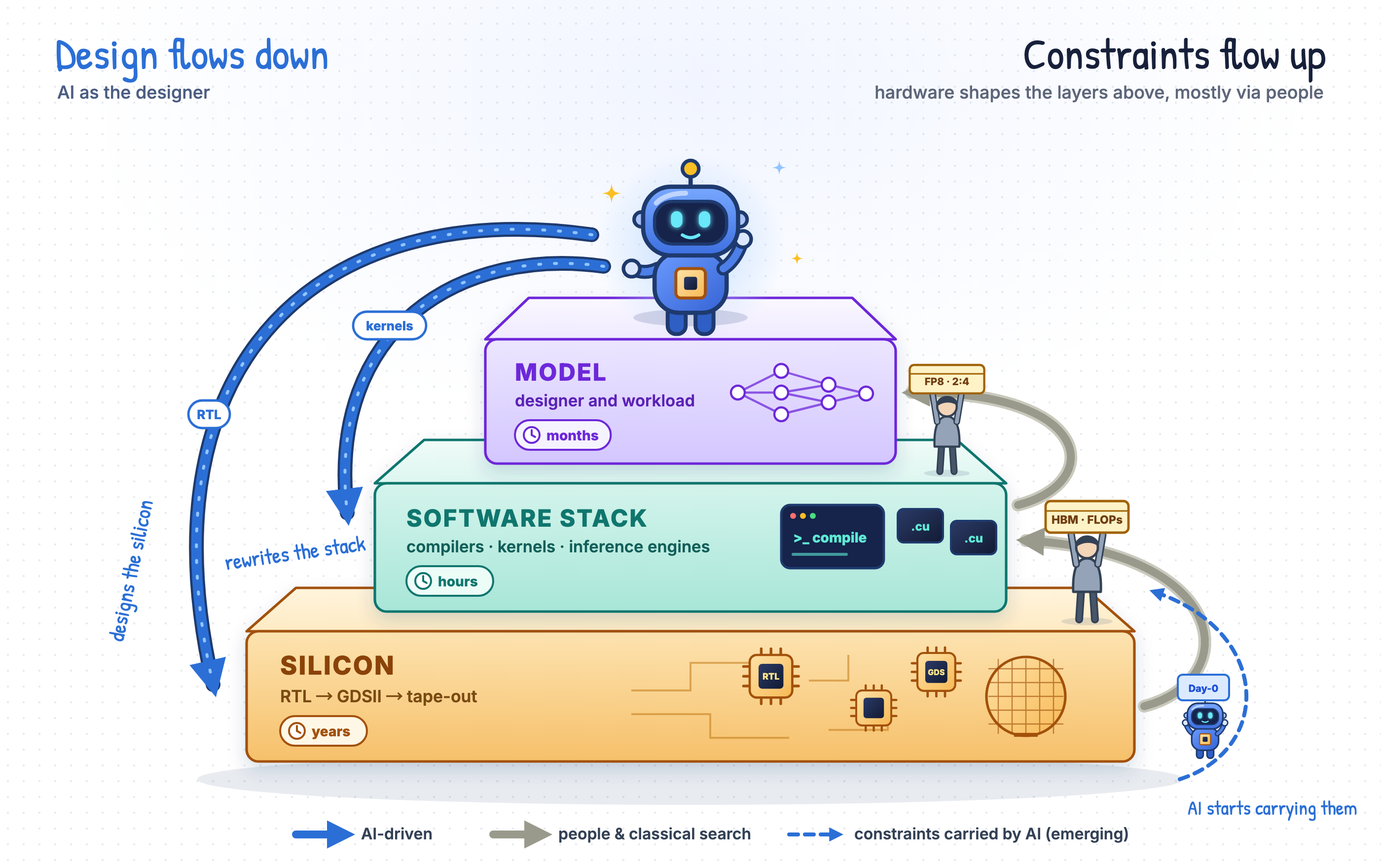
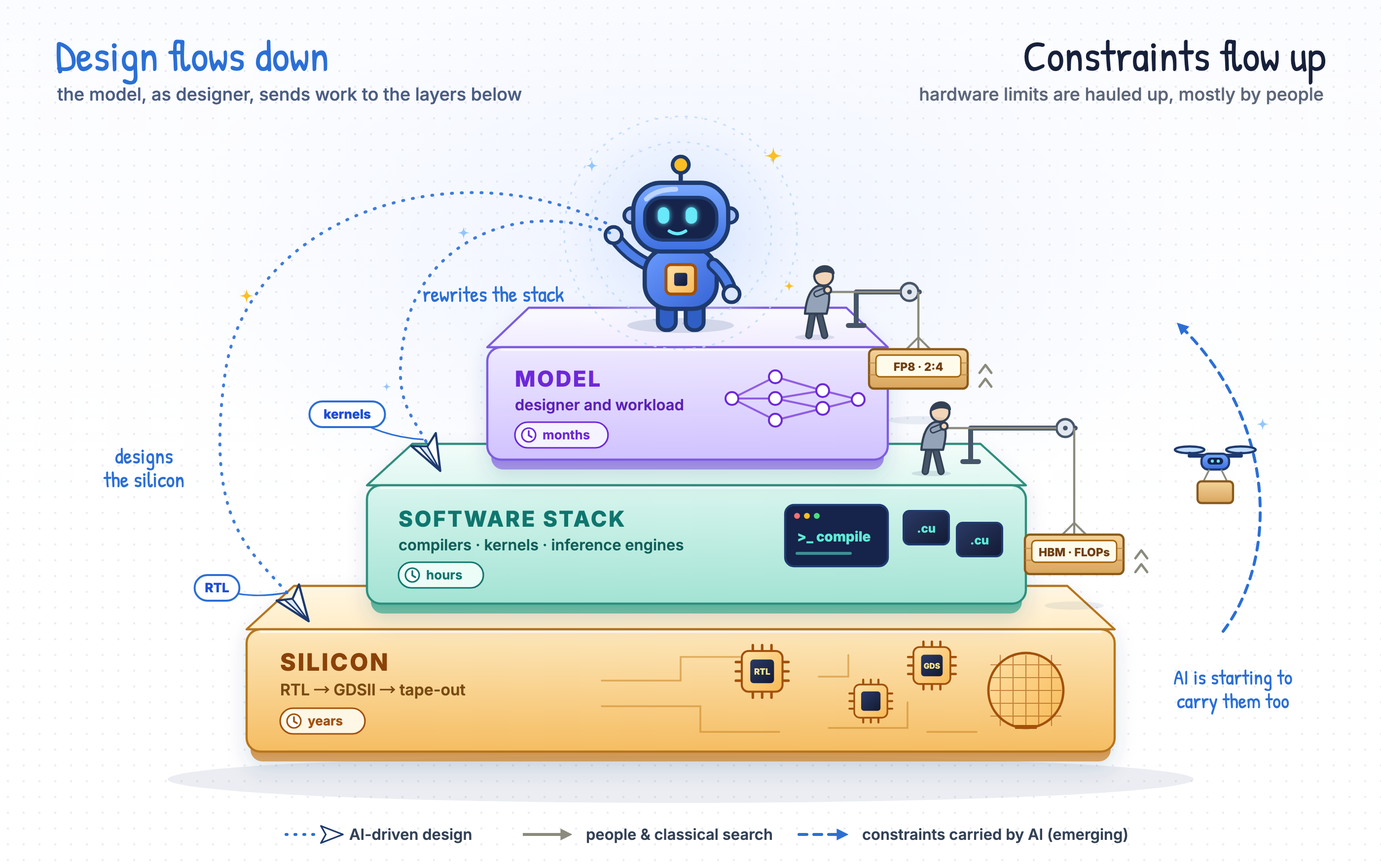
Refine Figure 2: paper planes down, hoists up
Design flows down as paper planes on dotted flight paths; constraints
are hauled up ledge by ledge on pulley hoists worked by people; a drone
marks AI starting to carry them. Day-0 label removed; slabs get a lip
and finer strokes.

diff --git a/scripts/figures/tower.html b/scripts/figures/tower.html
@@ -13,186 +13,219 @@
   html, body { background: #fff; }
   body { width: 1400px; height: 880px; overflow: hidden; font-family: Inter, sans-serif;
          background:
-           radial-gradient(rgba(42,55,99,.10) 1px, transparent 1.3px) 0 0 / 16px 16px,
-           radial-gradient(900px 500px at 50% 10%, #f1f5ff 0%, rgba(255,255,255,0) 70%),
-           #fff; }
+           radial-gradient(rgba(42,55,99,.09) 1px, transparent 1.3px) 0 0 / 16px 16px,
+           radial-gradient(760px 420px at 50% 30%, #eef3ff 0%, rgba(255,255,255,0) 70%),
+           linear-gradient(180deg, #fbfcff 0%, #ffffff 60%); }
   svg { display: block; }
 </style>
 </head>
 <body>
 <svg id="fig" width="1400" height="880" viewBox="0 0 1400 880"></svg>
 <script>
-const NAVY = '#1e3a6e';
+const NAVY = '#1e3a6e', BLUE = '#2b6fd6', ROPE = '#8b8b7e';
 const defs = `<defs>
   <linearGradient id="gHead" x1="0" y1="0" x2="0" y2="1"><stop offset="0" stop-color="#78a8ff"/><stop offset="1" stop-color="#3d6fe0"/></linearGradient>
   <linearGradient id="gBody" x1="0" y1="0" x2="1" y2="1"><stop offset="0" stop-color="#6b9bff"/><stop offset="1" stop-color="#3563d4"/></linearGradient>
   <linearGradient id="gChip" x1="0" y1="0" x2="1" y2="1"><stop offset="0" stop-color="#ffe2a8"/><stop offset="1" stop-color="#f7b955"/></linearGradient>
   <linearGradient id="gDie" x1="0" y1="0" x2="1" y2="1"><stop offset="0" stop-color="#2b3a66"/><stop offset="1" stop-color="#121a33"/></linearGradient>
-  <linearGradient id="fSi" x1="0" y1="0" x2="0" y2="1"><stop offset="0" stop-color="#fde3b0"/><stop offset="1" stop-color="#f6c06a"/></linearGradient>
-  <linearGradient id="tSi" x1="0" y1="0" x2="0" y2="1"><stop offset="0" stop-color="#fff4dc"/><stop offset="1" stop-color="#feebc4"/></linearGradient>
-  <linearGradient id="fSt" x1="0" y1="0" x2="0" y2="1"><stop offset="0" stop-color="#d4f4ec"/><stop offset="1" stop-color="#a8e6d8"/></linearGradient>
-  <linearGradient id="tSt" x1="0" y1="0" x2="0" y2="1"><stop offset="0" stop-color="#f0fbf8"/><stop offset="1" stop-color="#ddf6f0"/></linearGradient>
-  <linearGradient id="fMo" x1="0" y1="0" x2="0" y2="1"><stop offset="0" stop-color="#ece6ff"/><stop offset="1" stop-color="#d3c6ff"/></linearGradient>
-  <linearGradient id="tMo" x1="0" y1="0" x2="0" y2="1"><stop offset="0" stop-color="#faf8ff"/><stop offset="1" stop-color="#efeaff"/></linearGradient>
-  <radialGradient id="gGlow"><stop offset="0" stop-color="#bfdbfe" stop-opacity=".9"/><stop offset="1" stop-color="#bfdbfe" stop-opacity="0"/></radialGradient>
+  <linearGradient id="gWood" x1="0" y1="0" x2="0" y2="1"><stop offset="0" stop-color="#f3d39b"/><stop offset="1" stop-color="#d9a55c"/></linearGradient>
+  ${[['Si', '#fde7bb', '#f5bd62', '#fff6e2', '#ffedc8', '#c9832b'],
+     ['St', '#d8f5ee', '#a3e3d4', '#f2fcf9', '#e0f7f1', '#3fa892'],
+     ['Mo', '#eee8ff', '#d0c2ff', '#fbfaff', '#f1ecff', '#8b6fe0']].map(([k, f0, f1, t0, t1, lip]) => `
+    <linearGradient id="f${k}" x1="0" y1="0" x2="0" y2="1"><stop offset="0" stop-color="${f0}"/><stop offset="1" stop-color="${f1}"/></linearGradient>
+    <linearGradient id="t${k}" x1="0" y1="0" x2="0" y2="1"><stop offset="0" stop-color="${t0}"/><stop offset="1" stop-color="${t1}"/></linearGradient>
+    <linearGradient id="l${k}" x1="0" y1="0" x2="0" y2="1"><stop offset="0" stop-color="${lip}"/><stop offset="1" stop-color="${lip}" stop-opacity=".7"/></linearGradient>`).join('')}
+  <radialGradient id="gHalo"><stop offset="0" stop-color="#c7dbff" stop-opacity=".95"/><stop offset=".6" stop-color="#dbe8ff" stop-opacity=".45"/><stop offset="1" stop-color="#dbe8ff" stop-opacity="0"/></radialGradient>
   <filter id="fEye" x="-80%" y="-80%" width="260%" height="260%"><feGaussianBlur stdDeviation="1.6" result="b"/><feMerge><feMergeNode in="b"/><feMergeNode in="SourceGraphic"/></feMerge></filter>
-  <filter id="fSoft" x="-10%" y="-10%" width="120%" height="140%"><feDropShadow dx="0" dy="8" stdDeviation="9" flood-color="#1e3a6e" flood-opacity=".16"/></filter>
-  ${[['b', '#2b6fd6'], ['g', '#9a9a8c'], ['n', NAVY]].map(([k, c]) => `<marker id="ah-${k}" viewBox="0 0 10 10" refX="6.5" refY="5" markerWidth="3.6" markerHeight="3.6" orient="auto-start-reverse"><path d="M0 0L10 5L0 10z" fill="${c}"/></marker>`).join('')}
+  <filter id="fSoft" x="-10%" y="-20%" width="120%" height="150%"><feDropShadow dx="0" dy="10" stdDeviation="10" flood-color="#1e3a6e" flood-opacity=".14"/></filter>
+  ${[['b', BLUE], ['g', ROPE]].map(([k, c]) => `<marker id="ah-${k}" viewBox="0 0 10 10" refX="6.5" refY="5" markerWidth="4" markerHeight="4" orient="auto-start-reverse"><path d="M0 0L10 5L0 10z" fill="${c}"/></marker>`).join('')}
 </defs>`;
 
-function shadow(cx, cy, rx, o = .13) { return `<ellipse cx="${cx}" cy="${cy}" rx="${rx}" ry="${rx * 0.15}" fill="${NAVY}" opacity="${o}"/>`; }
-function sparkle(x, y, s = 1, c = '#fbbf24') {
-  return `<path transform="translate(${x},${y}) scale(${s})" d="M0 -9 C1 -2 2 -1 9 0 C2 1 1 2 0 9 C-1 2 -2 1 -9 0 C-2 -1 -1 -2 0 -9z" fill="${c}"/>`;
-}
-function robot(x, y, s = 1, { left = 'down', right = 'forward', flip = false } = {}) {
-  const arm = (side, pose) => {
-    const sx = side === 'L' ? 15 : 55, dir = side === 'L' ? -1 : 1;
-    const end = pose === 'up' ? [sx + dir * 12, 40] : pose === 'forward' ? [sx + dir * 16, 58] : [sx + dir * 9, 76];
-    const d = `M${sx} 58 Q ${sx + dir * 8} ${(58 + end[1]) / 2 + 4} ${end[0]} ${end[1]}`;
-    return `<path d="${d}" fill="none" stroke="${NAVY}" stroke-width="8.5" stroke-linecap="round"/><path d="${d}" fill="none" stroke="#4d7fe8" stroke-width="4.6" stroke-linecap="round"/>
-            <circle cx="${end[0]}" cy="${end[1]}" r="5" fill="#dbe7ff" stroke="${NAVY}" stroke-width="2.2"/>`;
-  };
-  return `<g transform="translate(${x},${y}) scale(${flip ? -s : s},${s})${flip ? ' translate(-70,0)' : ''}">
+const shadow = (cx, cy, rx, o = .13) => `<ellipse cx="${cx}" cy="${cy}" rx="${rx}" ry="${rx * 0.14}" fill="${NAVY}" opacity="${o}"/>`;
+const sparkle = (x, y, s = 1, c = '#fbbf24') =>
+  `<path transform="translate(${x},${y}) scale(${s})" d="M0 -9 C1 -2 2 -1 9 0 C2 1 1 2 0 9 C-1 2 -2 1 -9 0 C-2 -1 -1 -2 0 -9z" fill="${c}"/>`;
+
+function robot(x, y, s = 1) {
+  const arm = (d) => `<path d="${d}" fill="none" stroke="${NAVY}" stroke-width="8.5" stroke-linecap="round"/><path d="${d}" fill="none" stroke="#4d7fe8" stroke-width="4.6" stroke-linecap="round"/>`;
+  return `<g transform="translate(${x},${y}) scale(${s})">
     <rect x="21" y="80" width="11" height="18" rx="5" fill="#2f5fc4" stroke="${NAVY}" stroke-width="2.4"/>
     <rect x="38" y="80" width="11" height="18" rx="5" fill="#2f5fc4" stroke="${NAVY}" stroke-width="2.4"/>
-    ${arm('L', left)}
+    ${arm('M15 58 Q 2 52 -6 40')}<circle cx="-6" cy="40" r="5" fill="#dbe7ff" stroke="${NAVY}" stroke-width="2.2"/>
     <rect x="13" y="48" width="44" height="37" rx="15" fill="url(#gBody)" stroke="${NAVY}" stroke-width="2.6"/>
     <rect x="26" y="58" width="18" height="18" rx="3" fill="url(#gChip)" stroke="#a2510b" stroke-width="1.8"/><rect x="31" y="63" width="8" height="8" rx="1.5" fill="url(#gDie)"/>
-    ${arm('R', right)}
+    ${arm('M55 58 Q 64 66 66 76')}<circle cx="66" cy="76" r="5" fill="#dbe7ff" stroke="${NAVY}" stroke-width="2.2"/>
     <line x1="35" y1="9" x2="35" y2="-1" stroke="${NAVY}" stroke-width="2.6"/><circle cx="35" cy="-3" r="5" fill="#fbbf24" stroke="${NAVY}" stroke-width="2.2"/>
     <circle cx="5" cy="28" r="4.5" fill="#a9c2f7" stroke="${NAVY}" stroke-width="2.2"/><circle cx="65" cy="28" r="4.5" fill="#a9c2f7" stroke="${NAVY}" stroke-width="2.2"/>
     <rect x="6" y="8" width="58" height="42" rx="17" fill="url(#gHead)" stroke="${NAVY}" stroke-width="2.6"/>
     <path d="M14 18 q 6 -6 18 -6" stroke="#fff" stroke-opacity=".55" stroke-width="3" fill="none" stroke-linecap="round"/>
     <rect x="13" y="17" width="44" height="26" rx="11" fill="#16234a" stroke="${NAVY}" stroke-width="2"/>
-    <g filter="url(#fEye)"><rect x="23" y="23" width="7" height="10" rx="3.5" fill="#67e8f9"/><rect x="40" y="23" width="7" height="10" rx="3.5" fill="#67e8f9"/></g>
-    <path d="M30 37.5 q 5 3.2 10 0" stroke="#67e8f9" stroke-width="2" fill="none" stroke-linecap="round"/>
+    <g filter="url(#fEye)"><rect x="21" y="23" width="7" height="10" rx="3.5" fill="#67e8f9"/><rect x="38" y="23" width="7" height="10" rx="3.5" fill="#67e8f9"/></g>
+    <path d="M28 37.5 q 5 3.2 10 0" stroke="#67e8f9" stroke-width="2" fill="none" stroke-linecap="round"/>
   </g>`;
 }
-// a person carrying a crate overhead; facing left (toward the tower)
-function porter(x, y, s, label) {
-  return `<g transform="translate(${x},${y}) scale(${s})">
-    ${shadow(0, 2, 26)}
-    <g stroke="#334155" stroke-width="2.4" stroke-linejoin="round" stroke-linecap="round">
-      <path d="M-8 0 L-6 -30 M8 0 L6 -30" stroke-width="8"/><path d="M-8 0 L-6 -30 M8 0 L6 -30" stroke="#475569" stroke-width="4.6"/>
-      <path d="M-14 -28 C -15 -52 -9 -62 0 -62 S 15 -52 14 -28 Z" fill="#94a3b8"/>
-      <path d="M-11 -56 L -16 -86 M11 -56 L 16 -86" stroke-width="7.5"/><path d="M-11 -56 L -16 -86 M11 -56 L 16 -86" stroke="#94a3b8" stroke-width="4.4"/>
-      <circle cx="0" cy="-73" r="11" fill="#f3d5b8"/>
-      <path d="M-11 -75 c 1 -11 20 -12 22 -1 c -6 -4 -15 -4 -22 1z" fill="#334155"/>
-      <rect x="-42" y="-120" width="84" height="32" rx="5" fill="#fef3c7" stroke="#a16207"/>
-      <path d="M-42 -110 h84" stroke="#a16207" stroke-width="1.6"/>
+// paper plane pointing along angle (deg); a horizontal tag hangs from its tail on a string
+function plane(x, y, ang, label, tx, ty) {
+  const r = ang * Math.PI / 180, ex = x - 14 * Math.cos(r), ey = y - 14 * Math.sin(r);
+  const w = label.length * 7.8 + 22;
+  return `<path d="M${ex.toFixed(1)} ${ey.toFixed(1)} Q ${(ex + tx) / 2 - 6} ${(ey + ty) / 2 + 10} ${tx} ${ty}" fill="none" stroke="${BLUE}" stroke-width="1.6"/>
+    <g transform="translate(${tx - w / 2},${ty - 13})"><rect width="${w}" height="26" rx="13" fill="#fff" stroke="${BLUE}" stroke-width="2"/>
+      <text x="${w / 2}" y="17.5" text-anchor="middle" font-family="Inter" font-weight="800" font-size="13" fill="#1d4ed8">${label}</text></g>
+    <g transform="translate(${x},${y}) rotate(${ang})">
+      <path d="M22 0 L-14 -14 L-6 0 L-14 14 Z" fill="#fff" stroke="${NAVY}" stroke-width="2.2" stroke-linejoin="round"/>
+      <path d="M22 0 L-6 0 L-10 7 Z" fill="#dbeafe" stroke="${NAVY}" stroke-width="1.6" stroke-linejoin="round"/>
+    </g>`;
+}
+// crate hanging from a pulley; a person pulls the rope from the ledge above
+function hoist({ px, py, armX, crateY, puller, label }) {
+  const [hx, hy] = puller;
+  return `
+    <path d="M${px} ${py} V ${py - 34} H ${armX + 10}" fill="none" stroke="#475569" stroke-width="5" stroke-linecap="round" stroke-linejoin="round"/>
+    <path d="M${px - 8} ${py} H ${px + 8}" stroke="#475569" stroke-width="5" stroke-linecap="round"/>
+    <circle cx="${armX}" cy="${py - 34}" r="9" fill="#e2e8f0" stroke="#475569" stroke-width="2.4"/><circle cx="${armX}" cy="${py - 34}" r="2.4" fill="#475569"/>
+    <path d="M${armX + 9} ${py - 34} V ${crateY - 18}" stroke="${ROPE}" stroke-width="2.2"/>
+    <path d="M${armX - 9} ${py - 34} L ${hx + 12} ${hy - 44}" stroke="${ROPE}" stroke-width="2.2"/>
+    <g transform="translate(${armX + 9},${crateY})">
+      ${shadow(0, 54, 30, .08)}
+      <path d="M-12 -18 L0 -30 L12 -18" fill="none" stroke="${ROPE}" stroke-width="2"/>
+      <rect x="-50" y="-18" width="100" height="40" rx="5" fill="url(#gWood)" stroke="#8a5a1c" stroke-width="2.2"/>
+      <path d="M-50 -4 H50 M-50 8 H50" stroke="#b9853e" stroke-width="1.2" opacity=".7"/>
+      <rect x="-43" y="-12" width="86" height="22" rx="4" fill="#fffbeb" stroke="#a16207" stroke-width="1.4"/>
+      <text x="0" y="4" text-anchor="middle" font-family="Inter" font-weight="800" font-size="11.5" fill="#713f12">${label}</text>
+      <path d="M62 6 l6 -8 6 8 M62 20 l6 -8 6 8" fill="none" stroke="${ROPE}" stroke-width="2.4" stroke-linecap="round" stroke-linejoin="round"/>
     </g>
-    <text x="0" y="-97" text-anchor="middle" font-family="Inter" font-weight="800" font-size="11.5" fill="#713f12">${label}</text>
+    ${person(hx, hy)}`;
+}
+// a person leaning back, pulling a rope up and to the left
+function person(x, y) {
+  return `<g transform="translate(${x},${y})">
+    ${shadow(0, 2, 20)}
+    <g stroke="#334155" stroke-width="2.2" stroke-linejoin="round" stroke-linecap="round">
+      <path d="M-6 0 L-2 -24 M10 0 L4 -24" stroke-width="7.5"/><path d="M-6 0 L-2 -24 M10 0 L4 -24" stroke="#475569" stroke-width="4.2"/>
+      <path d="M-10 -22 C -8 -44 0 -52 8 -50 S 16 -38 12 -22 Z" fill="#94a3b8"/>
+      <path d="M2 -42 L 12 -46" stroke-width="7"/><path d="M2 -42 L 12 -46" stroke="#94a3b8" stroke-width="4"/>
+      <circle cx="13" cy="-46" r="3.6" fill="#f3d5b8"/>
+      <circle cx="9" cy="-60" r="9.5" fill="#f3d5b8"/>
+      <path d="M0 -62 c 1 -10 18 -11 19 -1 c -5 -3 -13 -3 -19 1z" fill="#334155"/>
+    </g>
   </g>`;
 }
-function slab(xl, xr, yTop, h, inset, d, front, top, stroke) {
+function drone(x, y) {
+  return `<g transform="translate(${x},${y})">
+    <g stroke="${NAVY}" stroke-width="2.2">
+      <path d="M-26 -8 H26" stroke-width="4" stroke-linecap="round"/>
+      <ellipse cx="-26" cy="-14" rx="15" ry="3.4" fill="#bfdbfe"/><ellipse cx="26" cy="-14" rx="15" ry="3.4" fill="#bfdbfe"/>
+      <path d="M-26 -8 V-12 M26 -8 V-12"/>
+      <rect x="-14" y="-10" width="28" height="16" rx="7" fill="url(#gHead)"/>
+      <rect x="-8" y="-6" width="16" height="7" rx="3.5" fill="#16234a" stroke="none"/>
+      <circle cx="-3" cy="-2.5" r="1.6" fill="#67e8f9" stroke="none"/><circle cx="3" cy="-2.5" r="1.6" fill="#67e8f9" stroke="none"/>
+      <path d="M-6 6 L-12 18 M6 6 L12 18" stroke="${ROPE}" stroke-width="1.8"/>
+      <rect x="-18" y="18" width="36" height="22" rx="4" fill="url(#gWood)" stroke="#8a5a1c"/>
+    </g>
+  </g>`;
+}
+function slab({ xl, xr, y, h, inset, d, k, stroke }) {
   return `<g filter="url(#fSoft)">
-    <path d="M${xl} ${yTop} L${xl + inset} ${yTop - d} L${xr - inset} ${yTop - d} L${xr} ${yTop} Z" fill="url(#${top})" stroke="${stroke}" stroke-width="2.6" stroke-linejoin="round"/>
-    <rect x="${xl}" y="${yTop}" width="${xr - xl}" height="${h}" rx="12" fill="url(#${front})" stroke="${stroke}" stroke-width="2.6"/>
+    <rect x="${xl + 4}" y="${y + h - 14}" width="${xr - xl - 8}" height="24" rx="12" fill="url(#l${k})"/>
+    <path d="M${xl} ${y} L${xl + inset} ${y - d} L${xr - inset} ${y - d} L${xr} ${y} Z" fill="url(#t${k})" stroke="${stroke}" stroke-width="2.2" stroke-linejoin="round"/>
+    <rect x="${xl}" y="${y}" width="${xr - xl}" height="${h}" rx="14" fill="url(#f${k})" stroke="${stroke}" stroke-width="2.2"/>
+    <path d="M${xl + 14} ${y + 2.5} H ${xr - 14}" stroke="#fff" stroke-opacity=".75" stroke-width="2.4" stroke-linecap="round"/>
   </g>`;
 }
-function pill(x, y, text, c, bg) {
-  const w = 16 + text.length * 9.2 + 26;
-  return `<g transform="translate(${x},${y})"><rect width="${w}" height="30" rx="15" fill="${bg}" stroke="${c}" stroke-width="2"/>
-    <circle cx="17" cy="15" r="8" fill="#fff" stroke="${c}" stroke-width="2"/><path d="M17 10v5l3.5 2" stroke="${c}" stroke-width="2" fill="none" stroke-linecap="round"/>
-    <text x="32" y="20.5" font-family="Inter" font-weight="800" font-size="14" fill="${c}">${text}</text></g>`;
-}
-function tag(x, y, text, c) {
-  const w = 18 + text.length * 8;
-  return `<g transform="translate(${x - w / 2},${y - 14})"><rect width="${w}" height="28" rx="14" fill="#fff" stroke="${c}" stroke-width="2.4"/>
-    <text x="${w / 2}" y="19" text-anchor="middle" font-family="Inter" font-weight="800" font-size="13" fill="${c}">${text}</text></g>`;
+function badge(x, y, text, c, bg) {
+  const w = 44 + text.length * 8.4;
+  return `<g transform="translate(${x},${y})"><rect width="${w}" height="26" rx="13" fill="${bg}" stroke="${c}" stroke-width="1.6"/>
+    <circle cx="14" cy="13" r="7" fill="#fff" stroke="${c}" stroke-width="1.6"/><path d="M14 9v4.4l3 1.8" stroke="${c}" stroke-width="1.8" fill="none" stroke-linecap="round"/>
+    <text x="28" y="17.6" font-family="Inter" font-weight="700" font-size="13" fill="${c}">${text}</text></g>`;
 }
 
 // ---------------------------------------------------------------- geometry
-const SI = { xl: 250, xr: 1150, y: 640, h: 132 };
-const ST = { xl: 380, xr: 1020, y: 490, h: 130 };
-const MO = { xl: 492, xr: 908, y: 344, h: 126 };
+const SI = { xl: 250, xr: 1130, y: 638, h: 124, inset: 48, d: 44, k: 'Si', stroke: '#b7741f' };
+const ST = { xl: 372, xr: 1040, y: 492, h: 120, inset: 46, d: 42, k: 'St', stroke: '#2f8f7d' };
+const MO = { xl: 494, xr: 900, y: 352, h: 114, inset: 42, d: 40, k: 'Mo', stroke: '#7c5ce0' };
 
 let g = defs;
-g += `<ellipse cx="700" cy="790" rx="500" ry="26" fill="${NAVY}" opacity=".10"/>`;
+g += `<ellipse cx="690" cy="790" rx="520" ry="24" fill="${NAVY}" opacity=".09"/>`;
 
 // headings
-g += `<text x="56" y="70" font-family="Patrick Hand" font-size="44" fill="#2b6fd6">Design flows down</text>
-      <text x="58" y="100" font-family="Inter" font-weight="500" font-size="18" fill="#4b5d82">AI as the designer</text>
-      <text x="1344" y="70" text-anchor="end" font-family="Patrick Hand" font-size="44" fill="#17203a">Constraints flow up</text>
-      <text x="1342" y="100" text-anchor="end" font-family="Inter" font-weight="500" font-size="18" fill="#5d6679">hardware shapes the layers above, mostly via people</text>`;
+g += `<text x="56" y="72" font-family="Patrick Hand" font-size="44" fill="${BLUE}">Design flows down</text>
+      <text x="58" y="102" font-family="Inter" font-weight="500" font-size="18" fill="#4b5d82">the model, as designer, sends work to the layers below</text>
+      <text x="1344" y="72" text-anchor="end" font-family="Patrick Hand" font-size="44" fill="#17203a">Constraints flow up</text>
+      <text x="1342" y="102" text-anchor="end" font-family="Inter" font-weight="500" font-size="18" fill="#5d6679">hardware limits are hauled up, mostly by people</text>`;
 
-// slabs
-g += slab(SI.xl, SI.xr, SI.y, SI.h, 50, 44, 'fSi', 'tSi', '#a2510b');
-g += slab(ST.xl, ST.xr, ST.y, ST.h, 50, 44, 'fSt', 'tSt', '#0f766e');
-g += slab(MO.xl, MO.xr, MO.y, MO.h, 44, 42, 'fMo', 'tMo', '#6d28d9');
+// the tower
+g += slab(SI) + slab(ST) + slab(MO);
 
-// silicon face: traces, chips, wafer
-g += `<g stroke="#c27c1a" stroke-width="2" fill="none" opacity=".55">
-    <path d="M640 700 H700 V672 H760 M640 724 H720 V748 H800 M820 690 H860 V664 M840 740 H900 V712"/>
+// silicon face
+g += `<g stroke="#c27c1a" stroke-width="1.8" fill="none" opacity=".5" stroke-linecap="round">
+    <path d="M610 690 H690 V666 H750 M610 716 H710 V742 H790 M830 686 H860 V664 M840 738 H920 V712 M990 742 H940"/>
   </g>`;
-for (const [x, y, s, l] of [[760, 664, .9, 'RTL'], [868, 700, .74, ''], [930, 662, .8, 'GDS']]) {
+for (const [x, y, s, l] of [[752, 660, .86, 'RTL'], [866, 694, .7, ''], [926, 656, .78, 'GDS']]) {
   let pins = ''; for (const p of [13, 24, 35]) pins += `<path d="M${p} 0v-7M${p} 48v7M0 ${p}h-7M48 ${p}h7"/>`;
   g += `<g transform="translate(${x},${y}) scale(${s})"><g stroke="#a2510b" stroke-width="3" stroke-linecap="round">${pins}</g>
-    <rect width="48" height="48" rx="8" fill="url(#gChip)" stroke="#a2510b" stroke-width="2.6"/><rect x="10" y="10" width="28" height="28" rx="4" fill="url(#gDie)"/>
+    <rect width="48" height="48" rx="8" fill="url(#gChip)" stroke="#a2510b" stroke-width="2.4"/><rect x="10" y="10" width="28" height="28" rx="4" fill="url(#gDie)"/>
     ${l ? `<text x="24" y="28" text-anchor="middle" font-family="Inter" font-weight="800" font-size="10" fill="#fde68a">${l}</text>` : ''}</g>`;
 }
-g += `<g transform="translate(1040,706)"><circle r="40" fill="url(#gChip)" stroke="#a2510b" stroke-width="2.6"/>
-  <g stroke="#a2510b" stroke-width="1.2" opacity=".65">${[-28, -14, 0, 14, 28].map(v => `<path d="M${v} -38 V38 M-38 ${v} H38"/>`).join('')}</g>
-  <path d="M-12 39 h24" stroke="#a2510b" stroke-width="4"/></g>`;
-g += `<text x="${SI.xl + 34}" y="${SI.y + 44}" font-family="Inter" font-weight="800" font-size="26" letter-spacing=".06em" fill="#8a4208">SILICON</text>
-      <text x="${SI.xl + 34}" y="${SI.y + 72}" font-family="Inter" font-weight="600" font-size="17" fill="#7a4a12">RTL → GDSII → tape-out</text>`;
-g += pill(SI.xl + 34, SI.y + 86, 'years', '#a2510b', '#fff7e6');
+g += `<g transform="translate(1040,700)"><circle r="38" fill="url(#gChip)" stroke="#a2510b" stroke-width="2.4"/>
+  <g stroke="#a2510b" stroke-width="1.1" opacity=".6">${[-26, -13, 0, 13, 26].map(v => `<path d="M${v} -36 V36 M-36 ${v} H36"/>`).join('')}</g>
+  <path d="M-11 37 h22" stroke="#a2510b" stroke-width="4"/></g>`;
+g += `<text x="${SI.xl + 34}" y="${SI.y + 42}" font-family="Inter" font-weight="800" font-size="24" letter-spacing=".08em" fill="#8a4208">SILICON</text>
+      <text x="${SI.xl + 34}" y="${SI.y + 67}" font-family="Inter" font-weight="600" font-size="16" fill="#7a4a12">RTL → GDSII → tape-out</text>`;
+g += badge(SI.xl + 34, SI.y + 80, 'years', '#a2510b', '#fff7e6');
 
-// stack face: terminal, kernels, compiler gear
-g += `<g transform="translate(792,512)"><rect width="104" height="64" rx="9" fill="#16234a" stroke="${NAVY}" stroke-width="2.4"/>
+// stack face
+g += `<g transform="translate(796,512)"><rect width="104" height="62" rx="9" fill="#16234a" stroke="${NAVY}" stroke-width="2.2"/>
   <circle cx="12" cy="11" r="3" fill="#f87171"/><circle cx="22" cy="11" r="3" fill="#fbbf24"/><circle cx="32" cy="11" r="3" fill="#4ade80"/>
-  <text x="12" y="38" font-family="Inter" font-weight="800" font-size="14" fill="#5eead4">&gt;_ compile</text>
-  <path d="M12 50 h54" stroke="#5eead4" stroke-width="3" stroke-linecap="round" opacity=".6"/></g>`;
-g += `<g transform="translate(910,516)">${[0, 1].map(i => `<g transform="translate(${i * 54},${i * 12})"><rect width="46" height="34" rx="6" fill="url(#gDie)" stroke="${NAVY}" stroke-width="2"/>
+  <text x="12" y="37" font-family="Inter" font-weight="800" font-size="14" fill="#5eead4">&gt;_ compile</text>
+  <path d="M12 49 h54" stroke="#5eead4" stroke-width="3" stroke-linecap="round" opacity=".55"/></g>`;
+g += `<g transform="translate(916,518)">${[0, 1].map(i => `<g transform="translate(${i * 54},${i * 12})"><rect width="46" height="34" rx="6" fill="url(#gDie)" stroke="${NAVY}" stroke-width="2"/>
   <text x="23" y="22" text-anchor="middle" font-family="Inter" font-weight="800" font-size="12" fill="#5eead4">.cu</text></g>`).join('')}</g>`;
-g += `<text x="${ST.xl + 32}" y="${ST.y + 44}" font-family="Inter" font-weight="800" font-size="24" letter-spacing=".06em" fill="#0f766e">SOFTWARE STACK</text>
-      <text x="${ST.xl + 32}" y="${ST.y + 70}" font-family="Inter" font-weight="600" font-size="16.5" fill="#115e59">compilers · kernels · inference engines</text>`;
-g += pill(ST.xl + 32, ST.y + 84, 'hours', '#0f766e', '#ecfdf8');
+g += `<text x="${ST.xl + 32}" y="${ST.y + 42}" font-family="Inter" font-weight="800" font-size="22" letter-spacing=".08em" fill="#0f766e">SOFTWARE STACK</text>
+      <text x="${ST.xl + 32}" y="${ST.y + 66}" font-family="Inter" font-weight="600" font-size="15.5" fill="#115e59">compilers · kernels · inference engines</text>`;
+g += badge(ST.xl + 32, ST.y + 78, 'hours', '#0f766e', '#ecfdf8');
 
-// model face: network
-g += `<g transform="translate(748,368)" stroke="#6d28d9" stroke-width="2.2">
-  <path d="M0 30 L44 8 M0 30 L44 52 M0 30 L44 30 M44 8 L92 22 M44 30 L92 22 M44 52 L92 40 M44 30 L92 40 M92 22 L130 31 M92 40 L130 31" fill="none" opacity=".75"/>
-  ${[[0, 30], [44, 8], [44, 30], [44, 52], [92, 22], [92, 40], [130, 31]].map(([x, y]) => `<circle cx="${x}" cy="${y}" r="7" fill="#fff"/>`).join('')}
+// model face
+g += `<g transform="translate(742,374)" stroke="#6d28d9" stroke-width="2">
+  <path d="M0 30 L44 8 M0 30 L44 52 M0 30 L44 30 M44 8 L92 22 M44 30 L92 22 M44 52 L92 40 M44 30 L92 40 M92 22 L128 31 M92 40 L128 31" fill="none" opacity=".7"/>
+  ${[[0, 30], [44, 8], [44, 30], [44, 52], [92, 22], [92, 40], [128, 31]].map(([x, y]) => `<circle cx="${x}" cy="${y}" r="6.5" fill="#fff"/>`).join('')}
 </g>`;
-g += `<text x="${MO.xl + 30}" y="${MO.y + 42}" font-family="Inter" font-weight="800" font-size="24" letter-spacing=".06em" fill="#6d28d9">MODEL</text>
-      <text x="${MO.xl + 30}" y="${MO.y + 68}" font-family="Inter" font-weight="600" font-size="16.5" fill="#5b21b6">designer and workload</text>`;
-g += pill(MO.xl + 30, MO.y + 82, 'months', '#6d28d9', '#f5f3ff');
+g += `<text x="${MO.xl + 28}" y="${MO.y + 40}" font-family="Inter" font-weight="800" font-size="22" letter-spacing=".08em" fill="#6d28d9">MODEL</text>
+      <text x="${MO.xl + 28}" y="${MO.y + 64}" font-family="Inter" font-weight="600" font-size="15.5" fill="#5b21b6">designer and workload</text>`;
+g += badge(MO.xl + 28, MO.y + 76, 'months', '#6d28d9', '#f5f3ff');
 
-// the model on top of the tower
-g += `<circle cx="700" cy="250" r="96" fill="url(#gGlow)"/>`;
-g += shadow(700, 322, 58, .16);
-g += robot(642, 176, 1.66, { left: 'forward', right: 'up' });
-g += sparkle(620, 196, 1.1) + sparkle(790, 170, .8, '#93c5fd') + sparkle(808, 262, .7);
+// the model on top, under a halo
+g += `<circle cx="690" cy="236" r="118" fill="url(#gHalo)"/>`;
+g += `<g fill="none" stroke="#bfdbfe" stroke-width="1.6" stroke-dasharray="3 7" opacity=".9"><circle cx="690" cy="236" r="92"/><circle cx="690" cy="236" r="118"/></g>`;
+g += shadow(690, 330, 54, .15);
+g += robot(632, 172, 1.66);
+g += sparkle(784, 158, 1) + sparkle(600, 168, .7, '#93c5fd') + sparkle(800, 290, .6);
 
-// design flows down: AI-driven pipes from the model into stack and silicon
-const tube = (d) => `<path d="${d}" fill="none" stroke="${NAVY}" stroke-width="15" stroke-linecap="round"/>
-  <path d="${d}" fill="none" stroke="#2b6fd6" stroke-width="10.5" stroke-linecap="round" marker-end="url(#ah-b)"/>
-  <path d="${d}" fill="none" stroke="#93c5fd" stroke-width="3" stroke-linecap="round" stroke-dasharray="2 14"/>`;
-g += tube('M612 270 C 470 250, 330 330, 352 520');
-g += tube('M600 238 C 330 200, 140 360, 216 694');
-g += tag(395, 330, 'kernels', '#2b6fd6') + tag(212, 420, 'RTL', '#2b6fd6');
-g += `<text x="300" y="568" text-anchor="middle" font-family="Patrick Hand" font-size="22" fill="#2b6fd6" transform="rotate(-8 300 568)">rewrites the stack</text>
-      <text x="140" y="580" text-anchor="middle" font-family="Patrick Hand" font-size="22" fill="#2b6fd6" transform="rotate(-78 140 580)">designs the silicon</text>`;
+// design flows down: paper planes on dotted flight paths
+const trail = (d) => `<path d="${d}" fill="none" stroke="${BLUE}" stroke-width="3" stroke-linecap="round" stroke-dasharray="1 9" opacity=".9"/>`;
+g += trail('M618 236 C 520 200, 430 250, 412 330 S 420 420, 436 456');
+g += trail('M614 226 C 460 150, 250 220, 228 380 S 260 560, 300 612');
+g += plane(436, 458, 62, 'kernels', 352, 420);
+g += plane(300, 612, 54, 'RTL', 220, 596);
+g += sparkle(470, 236, .7, '#93c5fd') + sparkle(250, 300, .8) + sparkle(392, 392, .5, '#93c5fd');
+g += `<text x="500" y="306" text-anchor="middle" font-family="Patrick Hand" font-size="22" fill="${BLUE}">rewrites the stack</text>
+      <text x="146" y="470" text-anchor="middle" font-family="Patrick Hand" font-size="22" fill="${BLUE}">designs</text>
+      <text x="146" y="494" text-anchor="middle" font-family="Patrick Hand" font-size="22" fill="${BLUE}">the silicon</text>`;
 
-// constraints flow up: people carry crates up the right side
-const up = (d) => `<path d="${d}" fill="none" stroke="#c9c9bd" stroke-width="13" stroke-linecap="round"/>
-  <path d="${d}" fill="none" stroke="#9a9a8c" stroke-width="8" stroke-linecap="round" marker-end="url(#ah-g)"/>`;
-g += up('M1160 716 C 1260 690, 1250 560, 1040 548');
-g += up('M1032 512 C 1120 490, 1110 396, 924 398');
-g += porter(1102, 628, 1.0, 'HBM · FLOPs');
-g += porter(960, 478, .9, 'FP8 · 2:4');
-// emerging: AI carrying a constraint (dashed)
-g += `<path d="M1196 790 C 1290 760, 1290 640, 1170 600" fill="none" stroke="#2b6fd6" stroke-width="4" stroke-dasharray="9 7" stroke-linecap="round" marker-end="url(#ah-b)"/>`;
-g += robot(1200, 708, .62, { left: 'up', right: 'up' });
-g += `<g transform="translate(1194,684)"><rect width="52" height="26" rx="5" fill="#dbeafe" stroke="#2b6fd6" stroke-width="2"/>
-  <text x="26" y="17.5" text-anchor="middle" font-family="Inter" font-weight="800" font-size="10" fill="#1d4ed8">Day-0</text></g>`;
-g += `<text x="1290" y="826" text-anchor="middle" font-family="Patrick Hand" font-size="20" fill="#2b6fd6">AI starts carrying them</text>`;
+// constraints flow up: hoists on the right ledges, worked by people
+g += hoist({ px: 984, py: ST.y - ST.d + 18, armX: 1080, crateY: 560, puller: [944, ST.y - 14], label: 'HBM · FLOPs' });
+g += hoist({ px: 868, py: MO.y - MO.d + 18, armX: 922, crateY: 372, puller: [826, MO.y - 12], label: 'FP8 · 2:4' });
+
+// emerging: an AI drone starting to carry constraints up
+g += `<path d="M1240 640 C 1300 560, 1290 420, 1196 330" fill="none" stroke="${BLUE}" stroke-width="3" stroke-dasharray="8 7" stroke-linecap="round" marker-end="url(#ah-b)"/>`;
+g += drone(1232, 470);
+g += sparkle(1280, 430, .7, '#93c5fd');
+g += `<text x="1250" y="694" text-anchor="middle" font-family="Patrick Hand" font-size="21" fill="${BLUE}">AI is starting to</text>
+      <text x="1250" y="718" text-anchor="middle" font-family="Patrick Hand" font-size="21" fill="${BLUE}">carry them too</text>`;
 
 // legend
-const L = (x, style, label) => `<g transform="translate(${x},846)">${style}<text x="66" y="5" font-family="Inter" font-weight="600" font-size="16" fill="#334155">${label}</text></g>`;
-g += L(300, `<path d="M0 0 H50" stroke="#2b6fd6" stroke-width="8" stroke-linecap="round" marker-end="url(#ah-b)"/>`, 'AI-driven');
-g += L(500, `<path d="M0 0 H50" stroke="#9a9a8c" stroke-width="8" stroke-linecap="round" marker-end="url(#ah-g)"/>`, 'people & classical search');
-g += L(800, `<path d="M0 0 H50" stroke="#2b6fd6" stroke-width="4" stroke-dasharray="9 7" stroke-linecap="round" marker-end="url(#ah-b)"/>`, 'constraints carried by AI (emerging)');
+const L = (x, art, label) => `<g transform="translate(${x},846)">${art}<text x="64" y="5.5" font-family="Inter" font-weight="600" font-size="15.5" fill="#334155">${label}</text></g>`;
+g += L(290, `<path d="M0 0 H34" stroke="${BLUE}" stroke-width="3" stroke-dasharray="1 8" stroke-linecap="round"/><g transform="translate(44,0) scale(.62)"><path d="M22 0 L-14 -14 L-6 0 L-14 14 Z" fill="#fff" stroke="${NAVY}" stroke-width="2.6" stroke-linejoin="round"/></g>`, 'AI-driven design');
+g += L(530, `<path d="M0 0 H46" stroke="${ROPE}" stroke-width="3" marker-end="url(#ah-g)"/>`, 'people & classical search');
+g += L(810, `<path d="M0 0 H46" stroke="${BLUE}" stroke-width="3" stroke-dasharray="8 7" stroke-linecap="round" marker-end="url(#ah-b)"/>`, 'constraints carried by AI (emerging)');
 
 document.getElementById('fig').innerHTML = g;
 </script>

diff --git a/README.md b/README.md
@@ -118,9 +118,9 @@ The survey makes three contributions:
 **Three layers.** A computing system that hosts a language model is abstracted into the model layer $M$ (architecture, attention and expert routing, numeric formats, training recipe), the software-stack layer $S$ (compilation, kernels, parallel partitioning, serving) and the hardware layer $H$ (microarchitecture, memory hierarchy, interconnect, RTL, layout). The system pursues a joint objective $J(M, S, H)$ under cost, power and area constraints $C$, for example effective tokens per second per watt.
 
 <div align="center">
-  <img src="./assets/tower.png" width="82%" alt="The model, software-stack and silicon tower drawn as three stacked slabs. Silicon at the base, with chips and a wafer, iterates in years; the software stack in the middle, with a compiler terminal and CUDA kernels, iterates in hours; the model on top, a neural network, iterates in months. A robot, the model as designer and workload, stands on top. On the left, blue AI-driven pipes carry kernels down into the stack and RTL down into the silicon. On the right, people climb the tower carrying constraint crates labelled HBM and FLOPs and FP8 and 2:4 sparsity up grey arrows; a small robot carrying a Day-0 crate on a dashed blue path shows AI starting to carry constraints upward.">
+  <img src="./assets/tower.png" width="82%" alt="The model, software-stack and silicon tower drawn as three stacked slabs. Silicon at the base, with chips and a wafer, iterates in years; the software stack in the middle, with a compiler terminal and CUDA kernels, iterates in hours; the model on top, a neural network, iterates in months. A robot, the model as designer and workload, stands on top under a halo. On the left, paper planes fly along dotted paths from the robot, one tagged kernels landing on the stack and one tagged RTL landing on the silicon. On the right, people work pulley hoists on the tower's ledges, hauling crates labelled HBM and FLOPs and FP8 and 2:4 up one level at a time; a small drone carrying a crate on a dashed path shows AI starting to carry constraints too.">
   <br>
-  <em><b>Figure 2.</b> The model–stack–silicon tower. Design flows down with AI as the designer; constraints flow up, so far carried almost entirely by people. The dashed path marks where AI has just begun to carry constraints upward, as in Qwen's Day-0 deployment on new hardware.</em>
+  <em><b>Figure 2.</b> The model–stack–silicon tower. Design flows down with AI as the designer; constraints flow up, so far hauled almost entirely by people. The drone marks where AI has just begun to carry constraints upward.</em>
 </div>
 
 **Co-evolution dynamics.** Each layer is updated by an operator that reads a measurement of the whole system, and the capability of whoever executes the update may itself depend on the system:

diff --git a/data/readme/framework.md b/data/readme/framework.md
@@ -5,9 +5,9 @@
 **Three layers.** A computing system that hosts a language model is abstracted into the model layer $M$ (architecture, attention and expert routing, numeric formats, training recipe), the software-stack layer $S$ (compilation, kernels, parallel partitioning, serving) and the hardware layer $H$ (microarchitecture, memory hierarchy, interconnect, RTL, layout). The system pursues a joint objective $J(M, S, H)$ under cost, power and area constraints $C$, for example effective tokens per second per watt.
 
 <div align="center">
-  <img src="./assets/tower.png" width="82%" alt="The model, software-stack and silicon tower drawn as three stacked slabs. Silicon at the base, with chips and a wafer, iterates in years; the software stack in the middle, with a compiler terminal and CUDA kernels, iterates in hours; the model on top, a neural network, iterates in months. A robot, the model as designer and workload, stands on top. On the left, blue AI-driven pipes carry kernels down into the stack and RTL down into the silicon. On the right, people climb the tower carrying constraint crates labelled HBM and FLOPs and FP8 and 2:4 sparsity up grey arrows; a small robot carrying a Day-0 crate on a dashed blue path shows AI starting to carry constraints upward.">
+  <img src="./assets/tower.png" width="82%" alt="The model, software-stack and silicon tower drawn as three stacked slabs. Silicon at the base, with chips and a wafer, iterates in years; the software stack in the middle, with a compiler terminal and CUDA kernels, iterates in hours; the model on top, a neural network, iterates in months. A robot, the model as designer and workload, stands on top under a halo. On the left, paper planes fly along dotted paths from the robot, one tagged kernels landing on the stack and one tagged RTL landing on the silicon. On the right, people work pulley hoists on the tower's ledges, hauling crates labelled HBM and FLOPs and FP8 and 2:4 up one level at a time; a small drone carrying a crate on a dashed path shows AI starting to carry constraints too.">
   <br>
-  <em><b>Figure 2.</b> The model–stack–silicon tower. Design flows down with AI as the designer; constraints flow up, so far carried almost entirely by people. The dashed path marks where AI has just begun to carry constraints upward, as in Qwen's Day-0 deployment on new hardware.</em>
+  <em><b>Figure 2.</b> The model–stack–silicon tower. Design flows down with AI as the designer; constraints flow up, so far hauled almost entirely by people. The drone marks where AI has just begun to carry constraints upward.</em>
 </div>
 
 **Co-evolution dynamics.** Each layer is updated by an operator that reads a measurement of the whole system, and the capability of whoever executes the update may itself depend on the system:
